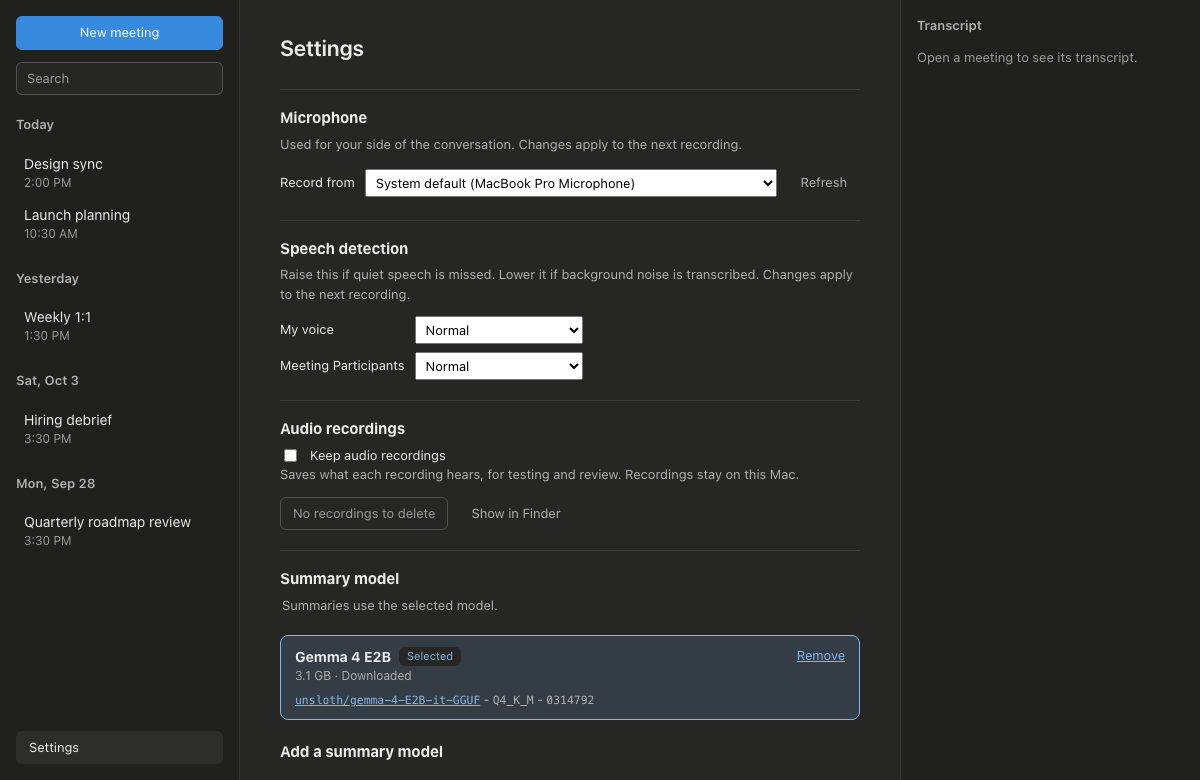
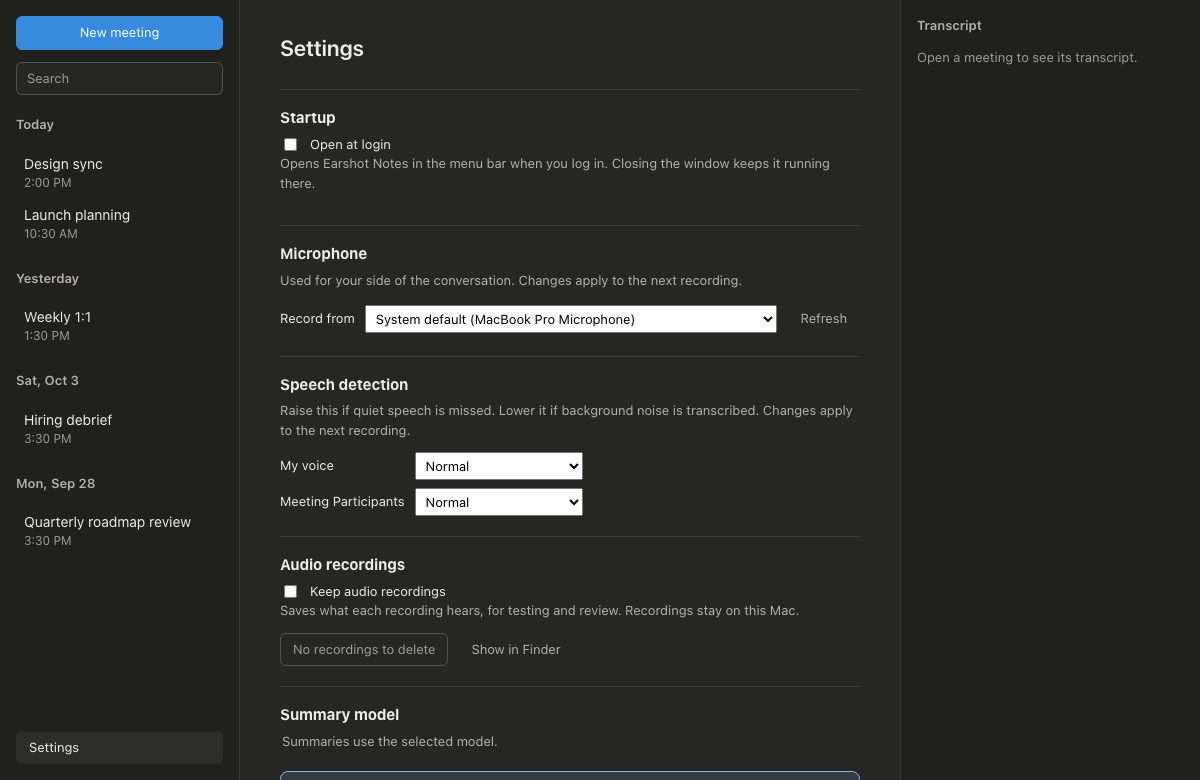
#29: Follow menu bar recordings in the window and add Open at login to Settings
The window listens for recording:changed: a recording started from the menu bar opens its new meeting, and one stopped there updates the controls. Settings gets a Startup section with Open at login, which shows when macOS needs approval or can't register this copy. AGENTS.md describes the menu bar, window, and login item conventions, and the Settings screenshots are regenerated.

diff --git a/src/App.test.tsx b/src/App.test.tsx
@@ -432,6 +432,37 @@ describe("App", () => {
     expect(screen.getByRole("alert")).toHaveTextContent("System audio couldn't start: tap failed.");
   });
 
+  it("opens a meeting the menu bar started recording", async () => {
+    const backend = fakeBackend([seedMeeting(1, "Design sync")]);
+    const user = userEvent.setup();
+    render(<App />);
+    await user.click(await within(sidebar()).findByRole("button", { name: /Design sync/ }));
+
+    // What the menu bar's Start recording does: a new meeting, recording.
+    const meeting = (await backend.handle("create_meeting", { title: "" })) as { id: number };
+    backend.state.recording = meeting.id;
+    emit("recording:changed", { meetingId: meeting.id });
+
+    await waitFor(() => expect(screen.getByLabelText("Meeting title")).toHaveValue("Untitled meeting"));
+    expect(within(sidebar()).getByRole("button", { name: /Untitled meeting/, current: "page" })).toBeInTheDocument();
+    expect(await screen.findByRole("button", { name: "Stop recording" })).toBeInTheDocument();
+  });
+
+  it("shows a recording stopped from the menu bar", async () => {
+    const backend = fakeBackend([seedMeeting(1, "Call")]);
+    const user = userEvent.setup();
+    render(<App />);
+    await user.click(await within(sidebar()).findByRole("button", { name: /Call/ }));
+    await user.click(await screen.findByRole("button", { name: "Start recording" }));
+    await screen.findByRole("button", { name: "Stop recording" });
+
+    backend.state.recording = null;
+    emit("recording:changed", { meetingId: null });
+
+    expect(await screen.findByRole("button", { name: "Start recording" })).toBeInTheDocument();
+    expect(screen.getByLabelText("Meeting title")).toHaveValue("Call");
+  });
+
   it("shows a problem reported during the recording", async () => {
     fakeBackend([seedMeeting(1, "Call")]);
     const user = userEvent.setup();
@@ -904,6 +935,52 @@ describe("App", () => {
 
       expect(screen.queryByRole("heading", { level: 1, name: "Settings" })).not.toBeInTheDocument();
       expect(await screen.findByLabelText("Meeting title")).toHaveValue("Sync");
+    });
+
+    describe("open at login", () => {
+      async function openWith(launchAtLogin: { enabled: boolean; needsApproval: boolean; available: boolean }) {
+        const backend = fakeBackend([seedMeeting(1, "Sync")]);
+        backend.state.launchAtLogin = launchAtLogin;
+        const user = userEvent.setup();
+        render(<App />);
+        await user.click(await within(sidebar()).findByRole("button", { name: "Settings" }));
+        return { backend, user };
+      }
+
+      it("is off by default and turns on and off", async () => {
+        const { backend, user } = await openWith({ enabled: false, needsApproval: false, available: true });
+        const option = await screen.findByRole("checkbox", { name: "Open at login" });
+
+        expect(option).not.toBeChecked();
+        await user.click(option);
+        await waitFor(() => expect(backend.state.launchAtLogin.enabled).toBe(true));
+        expect(option).toBeChecked();
+        await user.click(option);
+        await waitFor(() => expect(backend.state.launchAtLogin.enabled).toBe(false));
+      });
+
+      it("explains when macOS is waiting for approval", async () => {
+        await openWith({ enabled: true, needsApproval: true, available: true });
+
+        expect(await screen.findByRole("checkbox", { name: "Open at login" })).toBeChecked();
+        expect(screen.getByText(/System Settings > General > Login Items/)).toBeInTheDocument();
+      });
+
+      it("can't be turned on when macOS can't register this copy", async () => {
+        await openWith({ enabled: false, needsApproval: false, available: false });
+
+        expect(await screen.findByRole("checkbox", { name: "Open at login" })).toBeDisabled();
+        expect(screen.getByText(/Install it in Applications first/)).toBeInTheDocument();
+      });
+
+      it("shows why a change failed", async () => {
+        const { backend, user } = await openWith({ enabled: false, needsApproval: false, available: true });
+        backend.state.launchAtLoginError = { kind: "unavailable", message: "couldn't change opening at login: denied" };
+
+        await user.click(await screen.findByRole("checkbox", { name: "Open at login" }));
+
+        expect(await screen.findByText(/couldn't change opening at login: denied/i)).toHaveAttribute("role", "alert");
+      });
     });
 
     it("chooses a microphone", async () => {

diff --git a/src/features/settings/SettingsView.tsx b/src/features/settings/SettingsView.tsx
@@ -5,6 +5,7 @@ import {
   isCommandError,
   type InputDevice,
   type InstalledModels,
+  type LaunchAtLogin,
   type InstalledModel as InstalledModelInfo,
   type ModelRecord,
   type Sensitivity,
@@ -31,6 +32,7 @@ export function SettingsView({ recording, onShowSetup }: { recording: boolean; o
   return (
     <article className="settings">
       <h1>Settings</h1>
+      <StartupSection />
       <MicrophoneSection />
       <SpeechDetectionSection />
       <AudioRecordingsSection recording={recording} />
@@ -52,6 +54,60 @@ export function SettingsView({ recording, onShowSetup }: { recording: boolean; o
         )}
       </section>
     </article>
+  );
+}
+
+function StartupSection() {
+  const [state, setState] = useState<LaunchAtLogin | null>(null);
+  const [error, setError] = useState<string | null>(null);
+
+  useEffect(() => {
+    api
+      .launchAtLogin()
+      .then(setState)
+      .catch((e) => setError(errorMessage(e)));
+  }, []);
+
+  async function toggle(enabled: boolean) {
+    setError(null);
+    try {
+      setState(await api.setLaunchAtLogin(enabled));
+    } catch (e) {
+      setError(errorMessage(e));
+    }
+  }
+
+  return (
+    <section className="settings-section" aria-labelledby="startup-heading">
+      <h2 id="startup-heading">Startup</h2>
+      {state && (
+        <label className="settings-row">
+          <input
+            type="checkbox"
+            checked={state.enabled}
+            disabled={!state.available}
+            onChange={(e) => void toggle(e.target.checked)}
+          />
+          Open at login
+        </label>
+      )}
+      <p className="settings-help">
+        Opens Earshot Notes in the menu bar when you log in. Closing the window keeps it running there.
+      </p>
+      {state && !state.available && (
+        <p className="field-warning">This copy of Earshot Notes can't open at login. Install it in Applications first.</p>
+      )}
+      {state?.needsApproval && (
+        <p className="field-warning">
+          Allow Earshot Notes in System Settings &gt; General &gt; Login Items to finish turning this on.
+        </p>
+      )}
+      {error && (
+        <p className="field-error" role="alert">
+          {error}
+        </p>
+      )}
+    </section>
   );
 }
 

diff --git a/src/lib/api.ts b/src/lib/api.ts
@@ -66,6 +66,20 @@ export interface RecordingIssue extends SourceProblem {
   meetingId: number;
 }
 
+/** A recording started or stopped, from the window or the menu bar. Null means none is running. */
+export interface RecordingChanged {
+  meetingId: number | null;
+}
+
+/** Whether the app opens at login, as macOS reports it. */
+export interface LaunchAtLogin {
+  enabled: boolean;
+  /** Turned on, but waiting for approval in System Settings > General > Login Items. */
+  needsApproval: boolean;
+  /** False when macOS can't register this copy of the app, such as a development build. */
+  available: boolean;
+}
+
 export interface Summary {
   id: number;
   meetingId: number;
@@ -237,6 +251,10 @@ export const api = {
     listen<TranscriptSegment>("transcript:segment", (event) => handler(event.payload)),
   onRecordingIssue: (handler: (issue: RecordingIssue) => void): Promise<UnlistenFn> =>
     listen<RecordingIssue>("recording:issue", (event) => handler(event.payload)),
+  onRecordingChanged: (handler: (change: RecordingChanged) => void): Promise<UnlistenFn> =>
+    listen<RecordingChanged>("recording:changed", (event) => handler(event.payload)),
+  launchAtLogin: () => invoke<LaunchAtLogin>("launch_at_login"),
+  setLaunchAtLogin: (enabled: boolean) => invoke<LaunchAtLogin>("set_launch_at_login", { enabled }),
 
   summarizeMeeting: (meetingId: number) => invoke<void>("summarize_meeting", { meetingId }),
   cancelSummary: () => invoke<boolean>("cancel_summary"),

diff --git a/src/App.tsx b/src/App.tsx
@@ -57,6 +57,30 @@ export default function App() {
       .catch(() => setRecordingMeetingId(null));
   }, []);
 
+  // Recordings can also start and stop from the menu bar. One started there
+  // records a new meeting, which opens here so the window shows it. A
+  // recording of the open meeting started from this window needs nothing more.
+  useEffect(() => {
+    const unlisten = api.onRecordingChanged(({ meetingId }) => {
+      setRecordingMeetingId(meetingId);
+      if (meetingId === null || meetingId === selectedId) return;
+      api
+        .getMeeting(meetingId)
+        .then((meeting) => {
+          updateMeetings((all) => (all.some((m) => m.id === meeting.id) ? all : [meeting, ...all]));
+          // A new meeting matches no search, so show the full list it belongs to.
+          setSearch("");
+          setSelectedId(meeting.id);
+          setSelection({ ids: [meeting.id], anchor: meeting.id });
+          setView("meetings");
+        })
+        .catch((error) => console.error("couldn't open the meeting recording from the menu bar", error));
+    });
+    return () => {
+      unlisten.then((stop) => stop()).catch(() => {});
+    };
+  }, [selectedId, updateMeetings]);
+
   async function createMeeting() {
     setCreating(true);
     setCreateError(null);

diff --git a/src/testing/fakeBackend.ts b/src/testing/fakeBackend.ts
@@ -40,6 +40,8 @@ export function createFakeBackend(seed: MeetingDetail[] = [], segments: Transcri
     inputDevice: null as string | null,
     sensitivity: { me: "normal", them: "normal" } as Record<string, string>,
     keepAudio: false,
+    launchAtLogin: { enabled: false, needsApproval: false, available: true },
+    launchAtLoginError: null as unknown,
     recordingsSize: 0,
     shownRecordings: false,
     installed: [] as ModelRecord[],
@@ -175,6 +177,12 @@ export function createFakeBackend(seed: MeetingDetail[] = [], segments: Transcri
     },
     input_devices: () => state.devices,
     input_device: () => state.inputDevice,
+    launch_at_login: () => ({ ...state.launchAtLogin }),
+    set_launch_at_login: ({ enabled }) => {
+      if (state.launchAtLoginError) throw state.launchAtLoginError;
+      state.launchAtLogin = { ...state.launchAtLogin, enabled: Boolean(enabled) };
+      return { ...state.launchAtLogin };
+    },
     keep_audio: () => state.keepAudio,
     set_keep_audio: ({ enabled }) => {
       state.keepAudio = Boolean(enabled);

diff --git a/AGENTS.md b/AGENTS.md
@@ -53,11 +53,12 @@ The screenshots workflow runs on macOS because the UI uses the system font, and 
 ## Conventions
 
 - **UI features** live under `src/features/<feature>/`. Each feature keeps its components, hooks, and tests together.
-- **Rust modules** under `src-tauri/src/`: `audio` (microphone and system capture, downmix, resampling), `chunker` (speech segmentation), `transcribe` (Whistle and its worker thread), `recording` (start, stop, and the capture-to-worker pipeline), `summarize` (prompting, the llama.cpp generator, and the background summarizer), `models` (known models, download, and GGUF import), `export` (Markdown rendering and file writing), `store`, and `commands`. Tauri command handlers in `commands` stay thin and call into the other modules. Synchronous commands run on the main thread, so a command that touches the database, the disk, or another thread is `async` and does that work through `commands::blocking`, which moves it to the blocking thread pool. `Store` serializes access to its one connection with a mutex, and shared state such as `Store`, `Recorder`, and `Summarizer` is managed as an `Arc` so the work can take its own handle.
-- **UI and core communication:** the UI calls Tauri commands for requests, and the core pushes live updates as Tauri events. Current events: `transcript:segment`, `recording:issue`, `summary:progress`, `summary:text`, `summary:done`, `summary:failed`, `model:download-progress`, `model:download-done`, and `model:download-failed`.
+- **Rust modules** under `src-tauri/src/`: `audio` (microphone and system capture, downmix, resampling), `chunker` (speech segmentation), `transcribe` (Whistle and its worker thread), `recording` (start, stop, and the capture-to-worker pipeline), `summarize` (prompting, the llama.cpp generator, and the background summarizer), `models` (known models, download, and GGUF import), `export` (Markdown rendering and file writing), `tray` (the menu bar icon and its menu), `window` (showing and hiding the main window and the Dock icon), `store`, and `commands`. Tauri command handlers in `commands` stay thin and call into the other modules. Synchronous commands run on the main thread, so a command that touches the database, the disk, or another thread is `async` and does that work through `commands::blocking`, which moves it to the blocking thread pool. `Store` serializes access to its one connection with a mutex, and shared state such as `Store`, `Recorder`, and `Summarizer` is managed as an `Arc` so the work can take its own handle.
+- **UI and core communication:** the UI calls Tauri commands for requests, and the core pushes live updates as Tauri events. Current events: `transcript:segment`, `recording:changed`, `recording:issue`, `summary:progress`, `summary:text`, `summary:done`, `summary:failed`, `model:download-progress`, `model:download-done`, and `model:download-failed`.
+- **Menu bar and window:** Earshot Notes runs in the menu bar (`tray.rs`). Closing the window hides it and the Dock icon instead of quitting (`window.rs`), so recordings continue; **Quit** in the menu bar or the app menu exits, and `RunEvent::Exit` stops any recording first. The window starts hidden (`visible: false` in `tauri.conf.json`) and setup shows it, unless macOS opened the app at login. Start and stop every recording through `commands::recording::start` and `stop`, never `recording::start_recording` directly: they emit `recording:changed` and update the menu bar, which is how the window learns about recordings started or stopped from the menu bar. Opening at login is macOS's own setting (`SMAppService`), read each time rather than stored in `settings`, and works only for the bundled app.
 - **Audio pipeline:** capture threads must never block. They drop buffers when the pipeline falls behind. Captures send `audio::Buffer`, which carries the rate its samples were captured at, because a device's rate can change mid-recording (a Bluetooth headset drops to 16 or 24 kHz when its microphone opens). System audio follows the default output device: `audio/system.rs` watches it through `macos_audio::OutputDeviceWatcher` and rebuilds the tap on the new device, sending silence for the time between the two taps' buffers so transcript times stay in step; a failed rebuild reports a `recording:issue`. Never assume the rate from `CaptureFormat` stays fixed: `recording::run_pipeline` flushes the old resampler with `To16k::finish` and creates a new one when the rate changes, which keeps transcript times exact. Whistle receives 16 kHz mono segments of at most 28 s from `chunker`. System audio uses a lower absolute speech floor than the microphone (`SYSTEM_MIN_SPEECH_RMS` and `MIC_MIN_SPEECH_RMS` in `chunker.rs`), because call audio is quieter and has no microphone hiss. Those are the **Normal** floors: each source has a stored `chunker::Sensitivity` (Low, Normal, or High) that `start_recording` reads and passes to `run_pipeline` through `Pipeline::new`. Transcript times are offsets from `meetings.started_at`. When the **Keep audio recordings** setting is on, `src-tauri/src/recordings.rs` saves each source's 16 kHz stream, before `chunker`, to `<app data>/recordings/<meeting id>/<offset>-<source>.wav` from a writer thread; the pipeline only hands samples over without waiting, and audio that doesn't fit is written as silence so the file keeps its timing. These files are full conversations: never log, export, or upload them. Whistle can invent short phrases such as "Thank you." from clips with little speech, and reports no confidence, so `chunker` measures each segment's speech time and loudness margin (`chunker::Speech`) and `transcribe/phantom.rs` drops a listed phrase only when its clip was weak.
 - **Packaging:** `scripts/build-macos.sh` signs with `APPLE_SIGNING_IDENTITY`, else the first Developer ID or Apple Development certificate in the keychain, else ad-hoc. The build uses the hardened runtime, so `src-tauri/Entitlements.plist` must keep `com.apple.security.device.audio-input`, or microphone input is silently denied. The deployment target is macOS 26 for every build, set in `src-tauri/.cargo/config.toml`; keep it equal to `minimumSystemVersion` in `tauri.conf.json`. After changing it, run `cargo clean` in `src-tauri/`: llama.cpp's build script doesn't notice the change, and a stale build fails to link with an undefined `__isPlatformVersionAtLeast`. Bundled license texts live in `src-tauri/resources/licenses/`. `third-party-notices.txt` there is generated by `scripts/generate-notices.sh` from the normal Rust dependencies for `aarch64-apple-darwin` (cargo-about, configured in `scripts/notices/about.toml`) and the production npm dependencies in `package-lock.json`; never edit it by hand. A dependency under a license missing from `accepted` in `about.toml` fails the script, so review the license before adding it there. An npm package published without a license file needs one in `scripts/notices/npm-fallback/<package>/`. `build-macos.sh` runs the script with `--check` and stops if the file is out of date.
-- **Native macOS code:** `src-tauri/crates/macos-audio` holds the Objective-C system audio tap and microphone permission calls, compiled by its `build.rs` with `cc` under `-Wall -Wextra -Werror`. Keep its C interface in `native/audio_tap.h` and its Rust bindings in `src/lib.rs` in sync.
+- **Native macOS code:** `src-tauri/crates/macos-audio` holds the Objective-C system audio tap, the microphone permission calls, and the login item (`SMAppService`) calls, compiled by its `build.rs` with `cc` under `-Wall -Wextra -Werror`. Keep its C interface in `native/audio_tap.h` and its Rust bindings in `src/lib.rs` in sync.
 - **Permissions:** the bundled app declares `NSMicrophoneUsageDescription` and `NSAudioCaptureUsageDescription` in `src-tauri/Info.plist`, and requires macOS 26, the oldest version the prebuilt needle engine supports. System audio permission is read and requested through the private TCC framework, loaded with `dlopen` so its absence degrades to "unknown" instead of a crash; keep that fallback when changing it. Under `npm run tauri dev`, macOS attributes both permissions to your terminal app instead.
 - **Migrations:** schema changes are numbered SQL files in `src-tauri/migrations/`, applied in order through `PRAGMA user_version`. Never edit a shipped migration; add a new one and register it in `src-tauri/src/store/migrations.rs`.
 - **Meeting list and search:** `list_meetings` returns one page at a time, keyed on `(created_at, id)` with a cursor rather than an offset, and takes an optional search query. Search uses external-content FTS5 indexes over `meetings.title`, `notes.body_markdown`, and `transcript_segments.text` (`src-tauri/migrations/0005_meeting_search.sql`, `src-tauri/src/store/search.rs`). Triggers keep them in step, so a migration that renames or rebuilds one of those tables or columns must recreate its index and triggers too.
